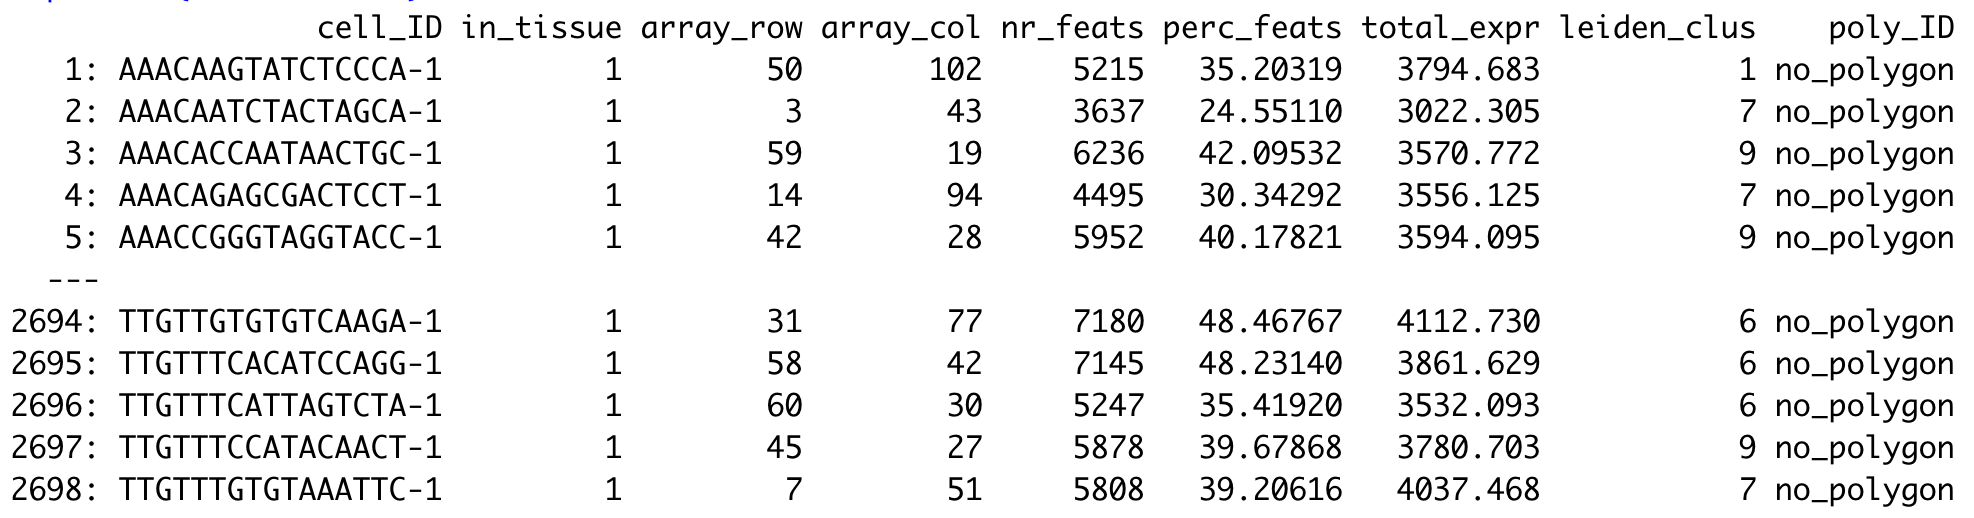
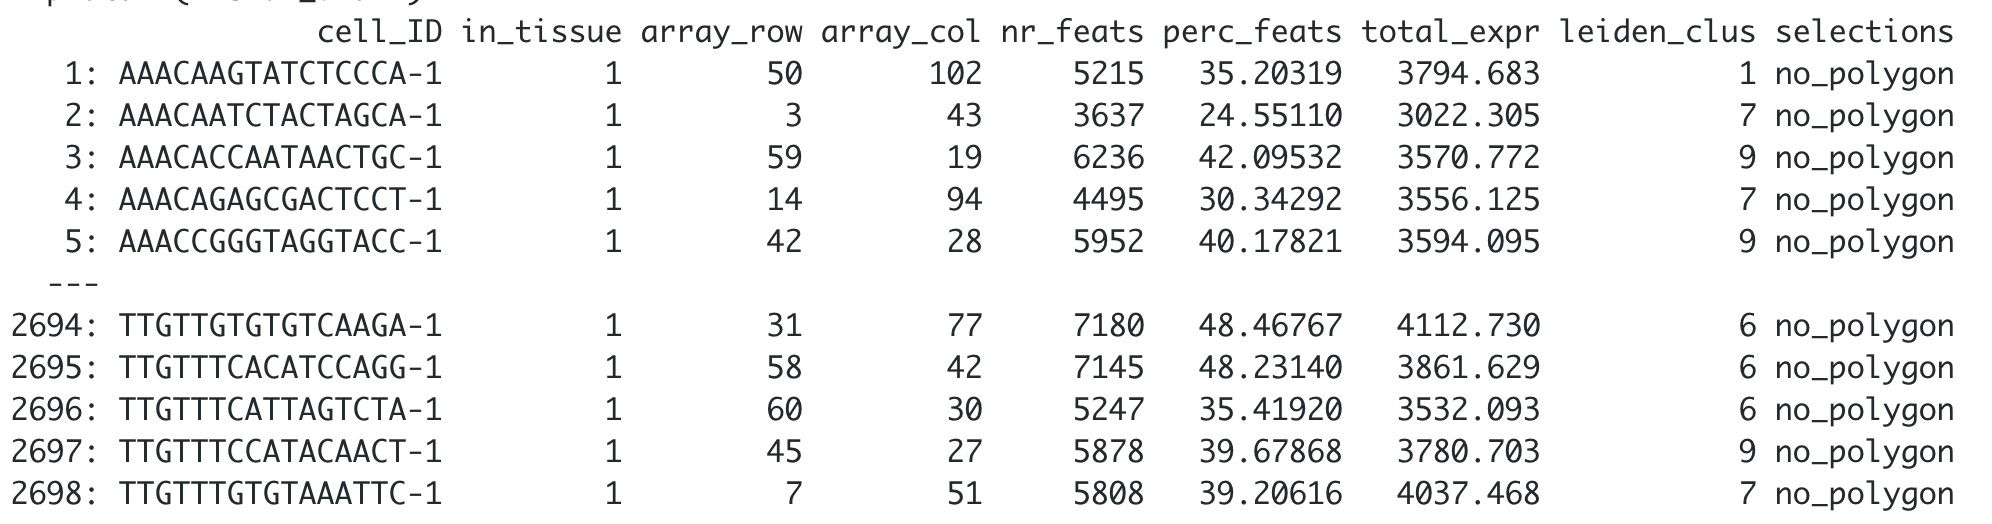
update interactive_selection tutorial to include polygon_name argument usage

diff --git a/docs/source/subsections/getting_started/interactive_selection.rst b/docs/source/subsections/getting_started/interactive_selection.rst
@@ -2,7 +2,7 @@
 Interactive selection
 =========================
 
-:Date: 2022-10-13
+:Date: 2022-11-17
 
 Set up Giotto object
 =========================
@@ -14,15 +14,15 @@ You can use as input either a ggplot2 object, a terra::rast image, or the output
 .. container:: cell
 
    .. code:: r
-      
+
       # Ensure Giotto Suite is installed.
-      if(!"Giotto" %in% installed.packages()) {
-        devtools::install_github("drieslab/Giotto@Suite")
+      if(!'Giotto' %in% installed.packages()) {
+        devtools::install_github('drieslab/Giotto@Suite')
       }
 
       # Ensure GiottoData, a small, helper module for tutorials, is installed.
-      if(!"GiottoData" %in% installed.packages()) {
-        devtools::install_github("drieslab/GiottoData")
+      if(!'GiottoData' %in% installed.packages()) {
+        devtools::install_github('drieslab/GiottoData')
       }
       library(Giotto)
       # Ensure the Python environment for Giotto has been installed.
@@ -89,7 +89,7 @@ You can use additional parameters passed to the polygon( ) function, such as the
 
       ## Modify the width and/or color of the line
       plotInteractivePolygons(my_spatPlot,
-                              color = "black",
+                              color = 'black',
                               lwd = 2)
 
 .. image:: /images/images_pkgdown/interactive_selection/vignette_221013/3-interactive_brain_black.png
@@ -114,7 +114,7 @@ Use the slider bars to zoom in or out your plot and draw tiny polygons.
 
       ## Use the zoom in and out slide-bars to select small areas
       plotInteractivePolygons(my_spatPlot,
-                        height = 320)
+                              height = 320)
 
 .. image:: /images/images_pkgdown/interactive_selection/vignette_221013/5-interactive_brain_zoom.png
    :width: 50.0%
@@ -146,20 +146,21 @@ Now, let's add the polygon coordinates to the Giotto object:
    .. code:: r
 
       ## We must transform the data.table or data.frame with coordinates into a Giotto polygon object
-      my_giotto_polygons <- createGiottoPolygonsFromDfr(my_polygon_coordinates)
+      my_giotto_polygons <- createGiottoPolygonsFromDfr(my_polygon_coordinates, name = 'selections')
 
       ## Then, add the polygons to the Giotto object
       visium_brain <- addGiottoPolygons(gobject = visium_brain,
-                                     gpolygons = list(my_giotto_polygons))
+                                        gpolygons = list(my_giotto_polygons))
 
-Finally, add the corresponding polygon ID to the cell Metadata. By default, the function will add a "no_polygon" label to cells outside polygons, but you can customize it using the na.label argument.
+Finally, add the corresponding polygon ID to the cell Metadata. By default, the function will add a 'no_polygon' label to cells outside polygons, but you can customize it using the na.label argument.
 
 .. container:: cell
 
    .. code:: r
 
       ## Using the default parameters
-      visium_brain <- addPolygonCells(visium_brain)
+      visium_brain <- addPolygonCells(visium_brain,
+                                      polygon_name = 'selections')
 
       ## Let's see how it looks like now the cell_metadata
       pDataDT(visium_brain)
@@ -172,7 +173,9 @@ Finally, add the corresponding polygon ID to the cell Metadata. By default, the 
    .. code:: r
 
       ## Customize the NA label
-      visium_brain <- addPolygonCells(visium_brain, na.label = "No Polygon")
+      visium_brain <- addPolygonCells(visium_brain,
+                                      polygon_name = 'selections',
+                                      na.label = 'No Polygon')
 
 .. image:: /images/images_pkgdown/interactive_selection/vignette_221013/8-new_metadata_customized.png
    :width: 80.0%
@@ -187,7 +190,9 @@ You can extract the coordinates and IDs from cells located within one or multipl
    .. code:: r
 
       ## Provide the name of the polygon to extract cells from
-      getCellsFromPolygon(visium_brain, polygons = "polygon 1")
+      getCellsFromPolygon(visium_brain,
+                          polygon_name = 'selections',
+                          polygons = 'polygon 1')
 
 .. image:: /images/images_pkgdown/interactive_selection/vignette_221013/9-get_cells_polygon_1.png
    :width: 55.0%
@@ -197,7 +202,8 @@ You can extract the coordinates and IDs from cells located within one or multipl
    .. code:: r
 
       ## If no polygon name is provided, the function will retrieve cells located within all polygons
-      getCellsFromPolygon(visium_brain)
+      getCellsFromPolygon(visium_brain,
+                          polygon_name = 'selections')
 
 .. image:: /images/images_pkgdown/interactive_selection/vignette_221013/10-get_cells.png
    :width: 55.0%
@@ -213,7 +219,7 @@ Let's compare the expression levels of some genes of interest between the select
 
       ## You can provide a list of genes
       comparePolygonExpression(visium_brain,
-                               selected_feats = c("Stmn1", "Psd", "Ly6h"))
+                               selected_feats = c('Stmn1', 'Psd', 'Ly6h'))
 
 
 .. image:: /images/images_pkgdown/interactive_selection/vignette_221013/11-compare_genes.png
@@ -225,11 +231,11 @@ Let's compare the expression levels of some genes of interest between the select
 
       ## Or calculate the top genes expressed within each region, then provide the result to compare polygons.
       scran_results <- findMarkers_one_vs_all(visium_brain,
-                                              spat_unit = "cell",
-                                              feat_type = "rna",
-                                              method = "scran",
-                                              expression_values = "normalized",
-                                              cluster_column = "poly_ID",
+                                              spat_unit = 'cell',
+                                              feat_type = 'rna',
+                                              method = 'scran',
+                                              expression_values = 'normalized',
+                                              cluster_column = 'selections',
                                               min_feats = 10)
 
       top_genes <- scran_results[, head(.SD, 2), by = 'cluster']$feats
@@ -254,7 +260,7 @@ If you have run an analysis for finding clusters or have anotated cell types wit
       compareCellAbundance(visium_brain)
 
       ## You can use other columns within the cell metadata table to compare the cell type abundances
-      compareCellAbundance(visium_brain, cell_type_column = "cell_type")
+      compareCellAbundance(visium_brain, cell_type_column = 'cell_type')
 
 .. image:: /images/images_pkgdown/interactive_selection/vignette_221013/13-compare_cell_abundance.png
    :width: 50.0%
@@ -272,7 +278,7 @@ You can use the spatPlot( ) arguments to isolate and plot each region. Also, you
       ## Compare clusters within each region
       spatPlot2D(visium_brain,
                  cell_color = 'leiden_clus',
-                 group_by = 'poly_ID',
+                 group_by = 'selections',
                  point_size = 1,
                  coord_fix_ratio = 1,
                  cow_n_col = 3,
@@ -287,9 +293,9 @@ You can use the spatPlot( ) arguments to isolate and plot each region. Also, you
 
       ## Compare expression levels between regions
       spatFeatPlot2D(visium_brain,
-                     expression_values = "scaled",
-                     group_by = 'poly_ID',
-                     feats = "Psd",
+                     expression_values = 'scaled',
+                     group_by = 'selections',
+                     feats = 'Psd',
                      point_size = 1)
 
 .. image:: /images/images_pkgdown/interactive_selection/vignette_221013/15-compare_spatfeatplot.png
@@ -305,7 +311,9 @@ You can plot again all or some drawn polygons. The minimal input is the Giotto o
    .. code:: r
 
       ## Plot all polygons
-      plotPolygons(visium_brain, my_spatPlot)
+      plotPolygons(visium_brain,
+                   polygon_name = 'selections',
+                   x = my_spatPlot)
 
 .. image:: /images/images_pkgdown/interactive_selection/vignette_221013/16-plotPolygons.png
    :width: 50.0%
@@ -317,7 +325,10 @@ Additionaly, you can plot a few polygons by providing a vector with the polygon 
    .. code:: r
 
       ## Plot a subset of polygons
-      plotPolygons(visium_brain, my_spatPlot, polygons = "polygon 2")
+      plotPolygons(visium_brain,
+                   polygon_name = 'selections',
+                   x = my_spatPlot,
+                   polygons = 'polygon 2')
 
 .. image:: /images/images_pkgdown/interactive_selection/vignette_221013/17-plotPolygon2.png
    :width: 50.0%
